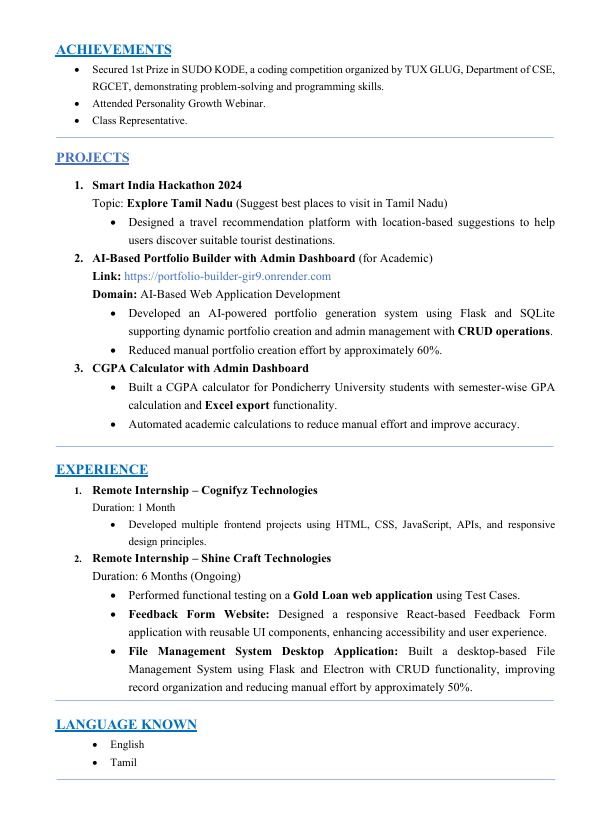
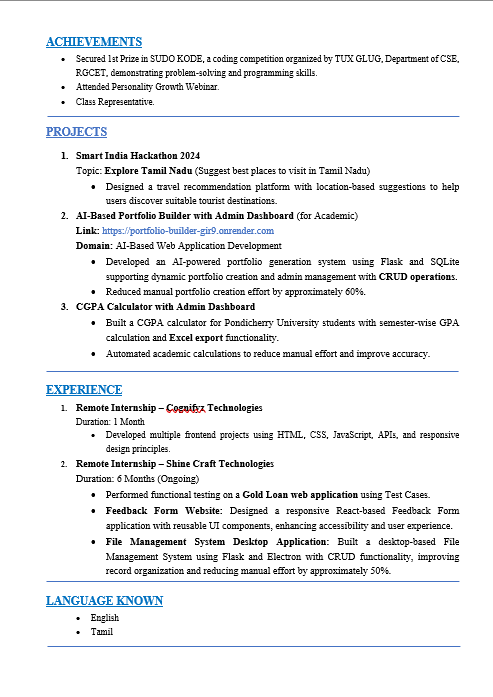
Customized Resume size

Changed region(s): [[0.0913, 0.1808, 0.9432, 0.5423], [0.0913, 0.5423, 0.9432, 0.934], [0.0913, 0.0301, 0.9432, 0.1808]]

diff --git a/index.html b/index.html
@@ -144,10 +144,20 @@
   </section>
 
 <section id="resume" class="content-section">
-    <h1 style="padding: 30px;">Resume</h1>
-  <center><img class='resume-my'src="Harish_Resume1.png" alt="Resume">            <img class='resume-my'src="Harish_Resume2.png" alt="Resume" style="height: 570px;"></center>
-  <a href="Harish_Resume.pdf" download class="btn">Download Resume PDF</a>
-  </section>  
+  <h1 style="padding:30px;">Resume</h1>
+
+  <center>
+    <img class="resume-img" src="Harish_Resume1.png" alt="Resume">
+
+    <img class="resume-img second-resume"
+         src="Harish_Resume2.png"
+         alt="Resume">
+  </center>
+
+  <a href="Harish_Resume.pdf" download class="btn">
+    Download Resume PDF
+  </a>
+</section>  
 
   <section id="contact" class="content-section">
     <h1 style="padding: 30px;">Contact Me</h1>

diff --git a/style.css b/style.css
@@ -238,14 +238,27 @@ nav ul li a.active {
   .social-box img { width: 60px; height: 60px; }
 }
 
-img{
-  width: 400px;
+/* Resume images */
+.resume-img{
+    width:400px;
+    height:auto;
+    margin-bottom:20px;
 }
 
-@media (max-width: 768px){
-  img {
-    width: 200px;
-  }
+/* Mobile only */
+@media (max-width:768px){
+
+    .resume-img{
+        width:200px;
+        height:auto;
+    }
+
+    /* Only second page */
+    .second-resume{
+        width:200px;
+        height:282px; /* adjust to match page 1 */
+        object-fit:contain;
+    }
 }
 
 .btn{
